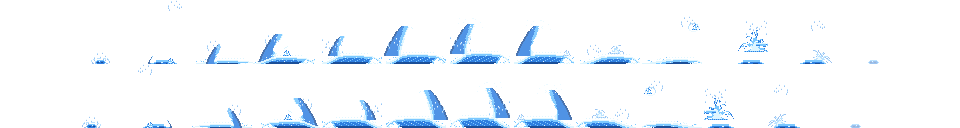
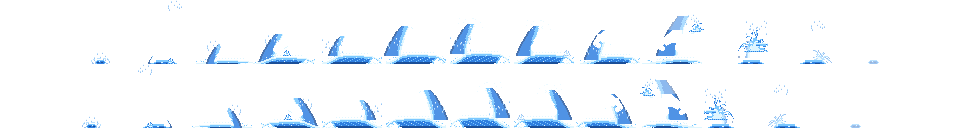
Tsunami v4 (swirl charge, reshaded wave) + Tidal Slam elbow water
Christopher 2026-11-04: in tsunamiCharge keep and extend the swirling
water and remove the small wave; keep the large wave but make it look
better. The spout now runs from frame 4 through the hold (a wider
wSpoutX vortex from frame 11) and into the release, where it bursts at
the thrust; no crest behind the caster in either clip. Zone wave is
_bigWave4: flowing current lines along the curve, crest foam lace, foam
fingers off the lip, smooth deep barrel with a see-through curtain,
ragged dark foot.

Tidal Slam: the water under the elbow looked disconnected; the wave now
rises behind the fighter on the leap and its curling top pours over its
back onto the elbow at the hit (wCrest40T, see-through).

Claude-Session: https://claude.ai/code/session_01Szh5tx7XLwDp3xboBTcD1f

diff --git a/tools/astro.py b/tools/astro.py
@@ -3637,6 +3637,7 @@ def _rideWave(h, phase=0, w=60, p0=16, pk=46, F=12):   # the wave the fighter ri
             y = H - 1 - int(top(x)) - rnd.randint(1, 2)
             if 0 <= y < H: rows[y][x] = rnd.choice('Ia')
     return [''.join(q) for q in rows]
+NPAT['wCrest40T'] = [q if i < 14 else '.' * len(q) for i, q in enumerate(NPAT['wCrest40'])]   # Tidal Slam v2.1: the crest's curling top only
 NPAT.update({**{'wRide%d_%d' % (h, p): _rideWave(h, p) for h in (4, 7, 9, 10, 11) for p in range(4)},
              'wRideBreak': _rideWave(8, 1, p0=22, pk=48, F=10), 'wRideCrash': _rideWave(5, 2, p0=26, pk=50, F=10)})
 U.POSES += [leg('tsl-surf-lead', (33, 46), (40, 51), 42), kleg('tsl-surf-rear', (31, 46), (25, 51), (21, 56), 'toe30k'),   # Tidal Slam v2: a wide, knees-bent surfer's stance on the wave
@@ -3676,9 +3677,9 @@ CLIPS['tidalSlam'] = ('Tidal Slam', 10,
                  6: [('wRide10_3', 'feet', -2, -5), ('wCrest30', 'feet', -17, -23, {'behind': True, 'alpha': _CR}), ('wDrops', 'feet', -24, -20, _A(_FADE))],
                  7: [('wRide11_0', 'feet', -2, -6), ('wCrest30', 'feet', -16, -24, {'behind': True, 'alpha': _CR}), ('wFoam', 'feet', -12, -40, _A(_FADE)), ('wDropsL', 'feet', -22, -20, _A(_FADE))],
                  8: [('wRide10_1', 'feet', -2, -5), ('wCrest30', 'feet', -13, -23, {'behind': True, 'alpha': _CR}), ('wFoam', 'feet', -8, -38, _A(_FADE)), ('wSplashS', 'feet', 20, -12, _A(_FADE))],
-                 9: [('wRideBreak', 'feet', -2, -4), ('wSplash', 'feet', 4, -16, _A(_FADE)), ('wDrops', 'feet', -18, -14, _A(_FADE))],
-                 10: [('wRideCrash', 'feet', -4, -3), ('wSplashS', 'hand', 2, 3), ('wRing', 'hand', 0, 4, _A(_FADE)), ('wDrops', 'hand', -6, -2, _A(_FADE))],
-                 11: [('wSplashXL', 'hand', 0, 4), ('wJetL', 'hand', 12, 10), ('wDropsL', 'hand', 2, -6, _A(_FADE)), ('wPuddleL', 'feet', 8, -1)],
+                 9: [('wRideBreak', 'feet', -2, -4), ('wCrest30', 'feet', -10, -19, {'behind': True, 'alpha': _CR}), ('wDrops', 'feet', -18, -14, _A(_FADE))],
+                 10: [('wRideCrash', 'feet', -4, -3), ('wCrest40', 'hand', -15, 12, {'behind': True, 'alpha': _CR}), ('wCrest40T', 'hand', -15, 12, {'alpha': {'n': 120, 'A': 140, 'a': 160, 'I': 190, 'W': 230}}), ('wSplash', 'hand', 3, 2), ('wDrops', 'hand', -2, -3, _A(_FADE))],
+                 11: [('wCrest20', 'hand', -6, 14, {'behind': True, 'alpha': _FADE}), ('wSplashXL', 'hand', 0, 4), ('wJetL', 'hand', 12, 10), ('wDropsL', 'hand', 2, -6, _A(_FADE)), ('wPuddleL', 'feet', 8, -1)],
                  12: [('wSplashLD', 'feet', 12, -10, _A(_FADE)), ('wPuddleL', 'feet', 6, -1), ('wDrops', 'head', 8, 4, _A(_FADE))],
                  13: [('wPuddle', 'feet', 4, -1, _A(_FADE))]}))
 CLIPS['tidalSlammed'] = ('Tidal Slammed', 0,
@@ -3753,7 +3754,78 @@ def _bigWave3(h, phase=0, seed=4):   # Tsunami v3 zone (Christopher 2026-11-03 2
         a = rnd.uniform(0, 1); x = round(T[0] - a * 0.35 * Wd - 2 * phase + rnd.randint(-2, 2)); y = round(T[1] + a * 0.22 * H - rnd.random() * 4 * (1 - a) + 2)
         if 0 <= x < W_ and 0 <= y < H and rows[y][x] == '.': rows[y][x] = rnd.choice('WWI')
     return [''.join(q) for q in rows]
-NPAT.update({'wTsunamiBig': _bigWave3(112, 0), **{'wTsunamiBig%d' % p: _bigWave3(112, p) for p in range(4)}})
+def _bigWave4(h, phase=0, seed=4):   # Tsunami v4 zone (Christopher 2026-11-04: keep the large wave but make it look better): the v3 breaking wave reshaded: flowing current lines that follow the wave's curve and slide with phase (0-3) instead of tick streaks, a lace of foam along the crest, foam fingers clawing off the lip's tip, a smooth deep barrel with a thin see-through curtain, a darker foot, a softer back edge
+    import random
+    from PIL import Image, ImageDraw
+    rnd = random.Random(seed * 10 + phase); Wd = round(h * 0.95); W_ = Wd + 18; H = h
+    def bez(p0, p1, p2, n=60): return [((1 - t) ** 2 * p0[0] + 2 * (1 - t) * t * p1[0] + t * t * p2[0], (1 - t) ** 2 * p0[1] + 2 * (1 - t) * t * p1[1] + t * t * p2[1]) for t in (i / n for i in range(n + 1))]
+    T, P, F, B = (0.6 * Wd, 0.03 * H), (1.0 * Wd, 0.44 * H), (0.72 * Wd, 0.33 * H), (0.93 * Wd, H - 1)
+    LI = (0.88 * Wd, 0.2 * H)   # control point of the lip's underside
+    back = [(0.6 * Wd * s, (H - 1) - (H - 1 - 0.03 * H) * (1 - (1 - s) ** 2.4)) for s in (i / 60 for i in range(61))]
+    poly = back + bez(T, (0.94 * Wd, -0.04 * H), P) + bez(P, LI, F) + bez(F, (0.66 * Wd, 0.78 * H), B) + [(0, H - 1)]
+    m = Image.new('L', (W_, H)); ImageDraw.Draw(m).polygon(poly, fill=1); M = m.load()
+    rows = [['.'] * W_ for _ in range(H)]
+    ins = lambda x, y: 0 <= x < W_ and 0 <= y < H and M[x, y]
+    hsh = lambda x, y: (x * 73856093 ^ y * 19349663) % 97
+    for y in range(H):
+        for x in range(W_):
+            if not M[x, y]: continue
+            v = (H - 1 - y) / (H - 1)
+            e = next(d for d in range(W_) if not ins(x + d, y)); b = next(d for d in range(W_) if not ins(x - d, y)); t = next(d for d in range(H) if not ins(x, y - d))
+            d = min(e, t + 1); dz = (x + y) % 2
+            if d <= 1: c = 'W' if v > 0.25 else 'I'
+            elif d <= 3 + dz: c = 'I' if v > 0.3 else 'a'
+            elif d <= 4 + round(10 * v) + dz and v > 0.5: c = 'I' if d <= 5 + dz else 'a'
+            elif d <= 6 + round(16 * v) + 2 * dz: c = 'a' if v > 0.18 else 'A'
+            elif e > 8 and v < 0.04 + 0.08 * hsh(x, y) / 97: c = 'n'   # the deep, dark foot of the wave, ragged
+            else: c = 'A'
+            if b <= 1: c = 'n'
+            elif b <= 3 and c == 'A' and dz: c = 'n'
+            if c in 'aA' and b > 3:   # current lines: bands parallel to the front edge (face and lip) and to the back, broken, sliding with phase
+                if (d - 2 * phase) % 9 == 0 and hsh(x, y) > 22: c = 'I' if c == 'a' else 'a'
+                elif x < T[0] and (b + 2 * phase) % 11 == 0 and hsh(x, y) > 30 and v > 0.2: c = 'a'
+            if t <= 3 and v > 0.55 and c != 'n':   # a lace of foam along the crest, with holes that drift with phase
+                c = 'I' if t == 3 or (t == 2 and (x // 2 + phase) % 3 == 0) else 'W'
+            rows[y][x] = c
+    for x in range(round(F[0]), round(P[0]) + 1):   # the barrel: deep water inside the curl, darkest against the face, bounded by the curtain from the tip back to the face
+        top_ = next((y for y in range(H) if M[x, y]), None)
+        if top_ is None: continue
+        y = top_
+        while y < H and M[x, y]: y += 1
+        ylim = P[1] + (P[0] - x) * 0.9
+        while y < min(H, ylim) and not M[x, y]:
+            q = (x - F[0]) / max(1, P[0] - F[0]); rows[y][x] = 'n' if q < 0.35 or (q < 0.55 and (x + y) % 2) else 'A'; y += 1
+    curt = bez(P, LI, F, 24)
+    for k, (px, py) in enumerate(curt):   # the curtain: a thin see-through sheet falling from the lip's edge into the barrel
+        for dd in range(1, 4 + round((1 - k / 24) * 5)):
+            yy = round(py + dd + (phase % 2)); xx = round(px - dd * 0.4)
+            if 0 <= yy < H and 0 <= xx < W_ and rows[yy][xx] in '.An' and (dd + k + phase) % 3: rows[yy][xx] = 'I' if dd < 3 else 'a'
+    for f in range(4):   # foam fingers clawing forward and down off the lip's tip
+        a0 = math.radians(-30 + 22 * f + 6 * (phase % 2)); L = 5 + (f * 3 + phase) % 4
+        for s_ in range(L * 2):
+            u = s_ / (L * 2); ang = a0 + u * 1.4
+            xx, yy = round(P[0] - 1 + u * L * math.cos(a0)), round(P[1] - 2 + u * L * math.sin(ang) + 2 * f * u)
+            if 0 <= xx < W_ and 0 <= yy < H: rows[yy][xx] = 'W' if u < 0.7 else 'I'
+    for _ in range(14):   # spray thrown off the tip
+        xx, yy = round(P[0] + rnd.uniform(0, 10) + phase), round(P[1] + rnd.uniform(-4, 10))
+        if 0 <= xx < W_ and 0 <= yy < H and rows[yy][xx] == '.': rows[yy][xx] = rnd.choice('WIa')
+    for _ in range(h // 2):   # foam pouring down the face from under the lip
+        y = round(0.38 * H + rnd.random() ** 1.6 * 0.4 * H + (phase * 3) % 6)
+        if y >= H: continue
+        xs = [x for x in range(W_) if M[x, y]]
+        if xs: x = max(xs) - rnd.randint(0, 3); rows[y][x] = 'W' if rows[y][x] != '.' else rows[y][x]
+    base = round(B[0])
+    for _ in range(h * 3):   # whitewater boiling ahead of the foot, in clumps
+        cxw = base - 8 + rnd.random() ** 0.9 * (W_ - base + 6); hy0 = rnd.random() ** 2 * h * 0.16
+        for _ in range(3):
+            x = round(cxw + rnd.uniform(-1.5, 1.5)); y = H - 1 - round(hy0 + rnd.uniform(0, 1.5))
+            if 0 <= x < W_ and 0 <= y < H: rows[y][x] = rnd.choice('WWWIa') if y < H - 2 else rnd.choice('WIIa')
+    for _ in range(h):   # spray blown back off the crest
+        a = rnd.uniform(0, 1); x = round(T[0] - a * 0.35 * Wd - 2 * phase + rnd.randint(-2, 2)); y = round(T[1] + a * 0.22 * H - rnd.random() * 4 * (1 - a) + 2)
+        if 0 <= x < W_ and 0 <= y < H and rows[y][x] == '.': rows[y][x] = rnd.choice('WWI')
+    return [''.join(q) for q in rows]
+NPAT.update({'wTsunamiBig': _bigWave4(112, 0), **{'wTsunamiBig%d' % p: _bigWave4(112, p) for p in range(4)},   # v4 (2026-11-04); _bigWave3 kept for reference
+             **{'wSpoutXF%d' % p: _helix(17, 52, p, turns=3.0) for p in range(4)}, **{'wSpoutXB%d' % p: _helix(17, 52, p, front=False, turns=3.0) for p in range(4)}})
 # ---------- Tsunami v3 (part 13, 2026-11-03; Christopher 22:35: the fx is getting there, make the wave look better and add charging frames) ----------
 # The renderer caps a clip at 16 frames, so the charge is its own clip, tsunamiCharge (16 frames, the shaking hold loops from 13),
 # and tsunami is the release (8 frames, the thrust on frame 2). The zone wave is the new breaking wave wTsunamiBig0-3.
@@ -3761,7 +3833,7 @@ _OVER_N, _OVER_F = band(-160, -176, fistKind='palm'), band(-155, -174, fistKind=
 _PDN_N, _PDN_F = band(-35, -40, fistKind='palm'), band(-30, -45, fistKind='palm')         # palms driven down at the floor
 _TS_CR = lambda h, dx, dy: ('wCrest%d' % h, 'feet', dx, dy, {'behind': True, 'alpha': _CR})
 CLIPS['tsunamiCharge'] = ('Tsunami Charge', 7,
-  'Tsunami Charge v3 (charge-up of the Cancer ninjutsu ultimate Tsunami; Christopher 2026-11-03 22:35: more charging frames): from the guard the fighter makes the seal and sinks low, eyes closing; drops of water lift off the floor and ripple rings spread round its feet; a spout of water spirals up round its whole body as its water aura flares wide; it drives both palms down and the floor bursts, jets of water shooting up round it, and the wave heaves up behind it; it hauls its arms up and the wave climbs frame by frame until it towers over its head, foam boiling off the curling lip, spray streaming up; then it holds the wave there, the whole body shaking with the strain (frames 13-15 loop while the charge lasts). The testbed then plays tsunami (the release).', [
+  'Tsunami Charge v4 (charge-up of the Cancer ninjutsu ultimate Tsunami; Christopher 2026-11-03 22:35: more charging frames; 2026-11-04: extend the swirling water, remove the small wave): from the guard the fighter makes the seal and sinks low, eyes closing; drops of water lift off the floor and ripple rings spread round its feet; a spout of water spirals up round its whole body as its water aura flares wide; it drives both palms down and the floor bursts, jets of water shooting up round it into the spiral; it hauls its arms up and the spout widens and climbs with them into a towering vortex of water whirling round its whole body, spray streaming up off the top; then it holds its arms up inside the vortex, the whole body shaking with the strain (no wave behind it: the giant wave appears only on the release) (frames 13-15 loop while the charge lasts). The testbed then plays tsunami (the release).', [
      g(),
      g(an=U.SEAL_N, af=U.SEAL_F, bob=(2, 2, 2), lean=(0, 0), **LOW),
      g(an=U.SEAL_N, af=U.SEAL_F, bob=(3, 3, 3), lean=(0, 1), **LOW),
@@ -3789,17 +3861,17 @@ CLIPS['tsunamiCharge'] = ('Tsunami Charge', 7,
                  4: [('wSpoutB0', 'feet', 0, -18, {'behind': True}), ('wSpoutF0', 'feet', 0, -18, _A(_FADE)), ('wDrops', 'head', -8, 0), ('wPuddleL', 'feet', 0, -1)],
                  5: [('wSpoutB1', 'feet', 0, -22, {'behind': True}), ('wSpoutF1', 'feet', 0, -22, {'alpha': {'a': 200, 'A': 200, 'I': 220}}), ('wDrops', 'head', 8, -4), ('wPuddleL', 'feet', 0, -1)],
                  6: [('wSpoutB2', 'feet', 0, -22, {'behind': True}), ('wSpoutF2', 'feet', 0, -22, {'alpha': {'a': 200, 'A': 200, 'I': 220}}), ('wDropsL', 'head', 0, -8, _A(_FADE)), ('wPuddleL', 'feet', 0, -1)],
-                 7: [('wSpoutB3', 'feet', 0, -22, {'behind': True, 'alpha': _FADE}), ('wJetUp', 'feet', -20, -14, {'behind': True}), ('wJetUp', 'feet', 14, -12), ('wSplashL', 'feet', 0, -9), ('wPuddleL', 'feet', 0, -1)],
-                 8: [('wJetUp', 'feet', -22, -18, {'behind': True}), ('wJetUp', 'feet', 16, -16, _A(_FADE)), ('wSplashS', 'feet', 6, -4), ('wPuddleL', 'feet', 0, -1), _TS_CR(10, -12, -5)],
-                 9: [_TS_CR(20, -13, -10), ('wJetUp', 'feet', -22, -20, {'behind': True, 'alpha': _FADE}), ('wDropsL', 'feet', -8, -20), ('wWakeL', 'feet', -12, -3)],
-                 10: [_TS_CR(30, -14, -15), ('wDropsL', 'feet', -8, -26), ('wWakeL', 'feet', -12, -3)],
-                 11: [_TS_CR(40, -14, -20), ('wDropsL', 'feet', -6, -36, _A(_FADE)), ('wFoam', 'feet', -10, -42, _A(_FADE)), ('wWakeL', 'feet', -12, -3)],
-                 12: [_TS_CR(52, -12, -26), ('wFoamL', 'feet', -4, -54), ('wDrops', 'head', 10, -6), ('wWakeL', 'feet', -12, -3)],
-                 13: [_TS_CR(56, -11, -28), ('wFoamL', 'feet', 0, -56), ('wDropsL', 'head', 12, -2, _A(_FADE)), ('wWakeL', 'feet', -12, -3)],
-                 14: [_TS_CR(56, -10, -28), ('wFoamL', 'feet', 2, -55), ('wDropsL', 'head', 14, 2), ('wWakeL', 'feet', -12, -3)],
-                 15: [_TS_CR(56, -11, -28), ('wFoamL', 'feet', -2, -56), ('wDrops', 'head', 10, -4), ('wWakeL', 'feet', -12, -3)]}))
+                 7: [('wSpoutB3', 'feet', 0, -22, {'behind': True}), ('wSpoutF3', 'feet', 0, -22, _A(_FADE)), ('wJetUp', 'feet', -20, -14, {'behind': True}), ('wJetUp', 'feet', 14, -12), ('wSplashL', 'feet', 0, -9), ('wPuddleL', 'feet', 0, -1)],
+                 8: [('wSpoutB0', 'feet', 0, -22, {'behind': True}), ('wSpoutF0', 'feet', 0, -22, {'alpha': {'a': 200, 'A': 200, 'I': 220}}), ('wJetUp', 'feet', -22, -18, {'behind': True}), ('wJetUp', 'feet', 16, -16, _A(_FADE)), ('wSplashS', 'feet', 6, -4), ('wPuddleL', 'feet', 0, -1)],
+                 9: [('wSpoutB1', 'feet', 0, -22, {'behind': True}), ('wSpoutF1', 'feet', 0, -22, {'alpha': {'a': 200, 'A': 200, 'I': 220}}), ('wJetUp', 'feet', -22, -20, {'behind': True, 'alpha': _FADE}), ('wDropsL', 'feet', -8, -20), ('wPuddleL', 'feet', 0, -1)],
+                 10: [('wSpoutB2', 'feet', 0, -22, {'behind': True}), ('wSpoutF2', 'feet', 0, -22, {'alpha': {'a': 200, 'A': 200, 'I': 220}}), ('wDropsL', 'feet', 8, -26), ('wPuddleL', 'feet', 0, -1), ('wRip12', 'feet', 0, -2, _A(_FADE))],
+                 11: [('wSpoutXB3', 'feet', 0, -26, {'behind': True}), ('wSpoutXF3', 'feet', 0, -26, {'alpha': {'a': 200, 'A': 200, 'I': 220}}), ('wDropsL', 'head', -6, -4, _A(_FADE)), ('wPuddleL', 'feet', 0, -1)],
+                 12: [('wSpoutXB0', 'feet', 0, -26, {'behind': True}), ('wSpoutXF0', 'feet', 0, -26, {'alpha': {'a': 200, 'A': 200, 'I': 220}}), ('wDropsL', 'head', 6, -8), ('wPuddleL', 'feet', 0, -1), ('wRip12', 'feet', 0, -2, _A(_FADE))],
+                 13: [('wSpoutXB1', 'feet', 0, -26, {'behind': True}), ('wSpoutXF1', 'feet', 0, -26, {'alpha': {'a': 200, 'A': 200, 'I': 220}}), ('wDropsL', 'head', -4, -8, _A(_FADE)), ('wPuddleL', 'feet', 0, -1), ('wSplashS', 'feet', -10, -4, _A(_FADE))],
+                 14: [('wSpoutXB2', 'feet', 0, -26, {'behind': True}), ('wSpoutXF2', 'feet', 0, -26, {'alpha': {'a': 200, 'A': 200, 'I': 220}}), ('wDropsL', 'head', 8, -6), ('wPuddleL', 'feet', 0, -1), ('wSplashS', 'feet', 10, -4, _A(_FADE))],
+                 15: [('wSpoutXB3', 'feet', 0, -26, {'behind': True}), ('wSpoutXF3', 'feet', 0, -26, {'alpha': {'a': 200, 'A': 200, 'I': 220}}), ('wDropsL', 'head', 0, -10, _A(_FADE)), ('wPuddleL', 'feet', 0, -1), ('wRip12', 'feet', 0, -2, _A(_FADE))]}))
 CLIPS['tsunami'] = ('Tsunami', 2,
-  'Tsunami v3 (Cancer ninjutsu ultimate, charge, Elemental 28, Wide AoE: the caster conjures a giant tidal wave that crashes violently into its opponents; Christopher 2026-11-03: more dramatic, it is an ultimate; 22:35: better wave, more charging frames): the release, played after tsunamiCharge: holding the towering wave overhead, the fighter hauls back once more, then thrusts both palms forward in a white burst of spray and the wave rolls over and past it toward the targets, crashing down ahead in a great crown, water flooding back round its feet; it settles into the guard. In the testbed the giant breaking wave itself (extra.zone) rolls across the whole AoE.', [
+  'Tsunami v4 (Cancer ninjutsu ultimate, charge, Elemental 28, Wide AoE: the caster conjures a giant tidal wave that crashes violently into its opponents; Christopher 2026-11-03: more dramatic, it is an ultimate; 22:35: better wave, more charging frames): the release, played after tsunamiCharge: arms up inside the whirling vortex, the fighter hauls back once more, then thrusts both palms forward: the vortex bursts in a white explosion of spray and the giant wave surges out from it toward the targets, water flooding back round its feet; it settles into the guard. In the testbed the giant breaking wave itself (extra.zone) rolls across the whole AoE.', [
      g(an=_OVER_N, af=_OVER_F, bob=(0, -1, 0), lean=(0, -2)),
      g(an=band(-165, -178, fistKind='palm'), af=band(-160, -176, fistKind='palm'), bob=(1, 0, 1), lean=(-1, -4)),
      g(an=band(-92, -92, fistKind='palm'), af=band(-85, -88, fistKind='palm'), bob=(2, 2, 2), lean=(2, 7), root=(2, 0), ln='sp-drive-rear', lf='sp-drive-lead'),
@@ -3813,12 +3885,12 @@ CLIPS['tsunami'] = ('Tsunami', 2,
   dict(fps=10, auraColors=_WAURA, rm='E: +2 thrusting the palms forward, -2 settling back',
        extra={'targetState': {'rule': 'Tsunami v3 (ultimate, charge; after tsunamiCharge): from the active frame (frame 2, the thrust) the testbed rolls the giant wave across the AoE (extra.zone); each fighter in the zone plays tsunamiStruck once when the wave front reaches its hex, then its idle', 'state': 'tsunamiStruck', 'loopFrom': None, 'element': 'water'},
               'charge': {'rule': 'Tsunami v3: the cast plays tsunamiCharge first (its shaking hold loops from frame 13 while the charge lasts), then this clip', 'state': 'tsunamiCharge'},
-              'zone': {'rule': 'Tsunami v3 (Christopher 2026-11-03: more dramatic; 22:35 make the wave look better): from frame 2 the testbed draws the giant breaking wave (about twice a fighter\'s height, base on the floor line, lip toward the targets), cycling NPAT frames wTsunamiBig0-3 every frameMs so the streaks and foam slide down its face, starting just behind the caster and rolling away from it across the whole Wide AoE over crossMs, rising from 60% to full height in the first quarter of the run, white foam NPAT wFoamL streaming off its lip, NPAT wSplashXL bursting at each fighter it hits; when it reaches the far edge of the AoE it crashes (it drops over 3 frames into wSplashXL / wDropsL along the edge), then the hexes it crossed hold a sheet of flood water (#2f7fe0 at 45%, white glints) that drains away over floodMs; preview tool hex-sprites/tools/astro_tsunami.py', 'pattern': 'wTsunamiBig', 'frames': ['wTsunamiBig0', 'wTsunamiBig1', 'wTsunamiBig2', 'wTsunamiBig3'], 'frameMs': 100, 'foam': 'wFoamL', 'hit': 'wSplashXL', 'startFrame': 2, 'crossMs': 900, 'floodMs': 700, 'from': 'caster', 'shape': 'wide'}},
-       anchored={0: [_TS_CR(56, -11, -28), ('wFoamL', 'feet', 0, -56), ('wDropsL', 'head', 12, -2, _A(_FADE)), ('wWakeL', 'feet', -12, -3)],
-                 1: [_TS_CR(56, -13, -28), ('wFoamL', 'feet', -3, -56), ('wDropsL', 'head', 8, -4), ('wWakeL', 'feet', -12, -3)],
-                 2: [('wFlash', 'hand', 2, 0), ('wCrest52', 'feet', 2, -26, {'behind': True, 'alpha': _CR}), ('wFoamL', 'feet', 14, -44), ('wSplashLD', 'feet', 18, -10), ('wJetL', 'hand', 10, 0)],
-                 3: [('wRing3', 'hand', 3, 0), ('wCrest40', 'feet', 12, -20, {'behind': True, 'alpha': _CR}), ('wSplashXL', 'feet', 14, -14), ('wDropsL', 'feet', 16, -30)],
-                 4: [('wCrest20', 'feet', 20, -10, {'behind': True, 'alpha': _FADE}), ('wSplashLD', 'feet', 22, -10, _A(_FADE)), ('wWakeL', 'feet', 12, -3), ('wPuddleL', 'feet', 4, -1)],
+              'zone': {'rule': 'Tsunami v4 (Christopher 2026-11-03: more dramatic; 22:35 and 2026-11-04 make the wave look better): from frame 2 the testbed draws the giant breaking wave (about twice a fighter\'s height, base on the floor line, lip toward the targets), cycling NPAT frames wTsunamiBig0-3 every frameMs so the streaks and foam slide down its face, starting just behind the caster and rolling away from it across the whole Wide AoE over crossMs, rising from 60% to full height in the first quarter of the run, white foam NPAT wFoamL streaming off its lip, NPAT wSplashXL bursting at each fighter it hits; when it reaches the far edge of the AoE it crashes (it drops over 3 frames into wSplashXL / wDropsL along the edge), then the hexes it crossed hold a sheet of flood water (#2f7fe0 at 45%, white glints) that drains away over floodMs; preview tool hex-sprites/tools/astro_tsunami.py', 'pattern': 'wTsunamiBig', 'frames': ['wTsunamiBig0', 'wTsunamiBig1', 'wTsunamiBig2', 'wTsunamiBig3'], 'frameMs': 100, 'foam': 'wFoamL', 'hit': 'wSplashXL', 'startFrame': 2, 'crossMs': 900, 'floodMs': 700, 'from': 'caster', 'shape': 'wide'}},
+       anchored={0: [('wSpoutXB0', 'feet', 0, -26, {'behind': True}), ('wSpoutXF0', 'feet', 0, -26, {'alpha': {'a': 200, 'A': 200, 'I': 220}}), ('wDropsL', 'head', 12, -2, _A(_FADE)), ('wPuddleL', 'feet', 0, -1)],
+                 1: [('wSpoutXB1', 'feet', 0, -26, {'behind': True}), ('wSpoutXF1', 'feet', 0, -26, {'alpha': {'a': 200, 'A': 200, 'I': 220}}), ('wDropsL', 'head', 8, -4), ('wPuddleL', 'feet', 0, -1)],
+                 2: [('wFlash', 'hand', 2, 0), ('wSpoutXB2', 'feet', 0, -26, {'behind': True, 'alpha': _FADE}), ('wSplashXL', 'feet', 4, -14), ('wSplashLD', 'feet', 18, -10), ('wJetL', 'hand', 10, 0), ('wDropsL', 'head', 0, -8)],
+                 3: [('wRing3', 'hand', 3, 0), ('wSplashXL', 'feet', 14, -14), ('wDropsL', 'feet', 16, -30), ('wDropsL', 'head', -6, -2, _A(_FADE)), ('wWakeL', 'feet', 12, -3)],
+                 4: [('wSplashLD', 'feet', 22, -10, _A(_FADE)), ('wWakeL', 'feet', 12, -3), ('wPuddleL', 'feet', 4, -1), ('wDrops', 'head', 4, 4, _A(_FADE))],
                  5: [('wPuddleL', 'feet', 4, -1), ('wDropsL', 'feet', 14, -10, _A(_FADE)), ('wWake', 'feet', 14, -2, _A(_FADE))],
                  6: [('wPuddleL', 'feet', 2, -1, _A(_FADE))]}))
 
